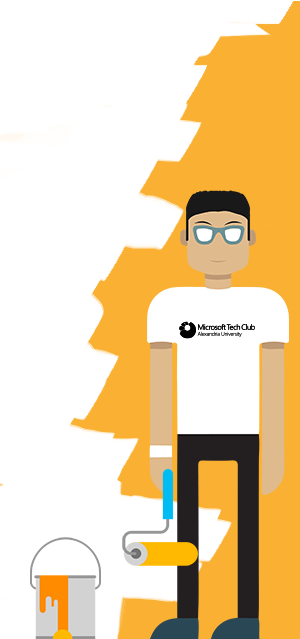
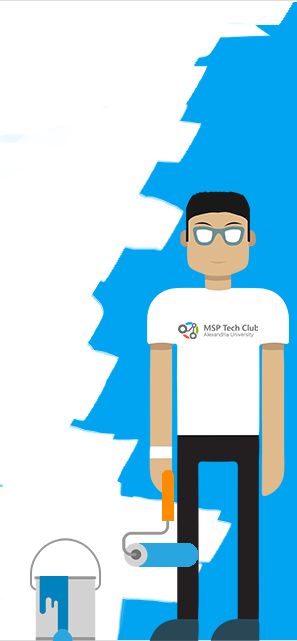
Redesign the new brand

diff --git a/MSTC/public/css/button.css b/MSTC/public/css/button.css
@@ -31,8 +31,8 @@
 
 .btn1-primary1 {
     color: #fff;
-    background-color: #fab133;
-    border-color: #fab133;
+    background-color: #e0e0e0;
+    border-color: #e0e0e0;
 }
 
 .btn1-primary1:hover,
@@ -41,8 +41,8 @@
 .btn1-primary1.active,
 .open .dropdown-toggle.btn1-primary1 {
     color: #fff;
-    background-color: #fab133;
-    border-color: #fab133;
+    background-color: #e0e0e0;
+    border-color: #e0e0e0;
 }
 
 /***********************
@@ -54,16 +54,16 @@
     padding: 12px 22px;
 }
 .btn1-primary1.outline1 {
-    border: 2px solid #fab133;
-    color: #fab133;
+    border: 2px solid #e0e0e0;
+    color: #e0e0e0;
 }
 .btn1-primary1.outline1:hover, .btn1-primary1.outline1:focus, .btn1-primary1.outline:active, .btn1-primary1.outline.active, .open > .dropdown-toggle.btn1-primary {
-    color: #fab133;
-    border-color: #fab133;
+    color: #e0e0e0;
+    border-color: #e0e0e0;
 }
 .btn1-primary1.outline1:active, .btn1-primary1.outline1.active1 {
-    border-color: #fab133;
-    color: #fab133;
+    border-color: #e0e0e0;
+    color: #e0e0e0;
     box-shadow: none;
 }
 

diff --git a/MSTC/public/css/simple-sidebar.css b/MSTC/public/css/simple-sidebar.css
@@ -85,7 +85,7 @@
     text-decoration: none;
     color: #fff;
     background: rgba(255,255,255,0.2);
-    border-left: #fab133 solid;
+    border-left: #01a4f1 solid;
     border-radius: 0;
 }
 

diff --git a/MSTC/resources/views/homepage.blade.php b/MSTC/resources/views/homepage.blade.php
@@ -26,7 +26,7 @@
         }
 
         .form-control:focus {
-            border-color: #fab133;
+            border-color: #01a4f1;
             outline: 0;
             -webkit-box-shadow: inset 0 1px 1px rgba(0,0,0,.075),0 0 8px rgba(102,175,233,.6);
             box-shadow: inset 0 1px 1px rgba(0,0,0,.075),0 0 8px rgba(102,175,233,.6);
@@ -45,16 +45,16 @@
             z-index: 999;
         }
         a {
-            color: #fab133;
+            color: #01a4f1;
         }
         a:link {
-            color: #fab133;
+            color: #01a4f1;
         }
         a:visited {
-            color: #fab133;
+            color: #01a4f1;
         }
         a:hover {
-            color: #fab133;
+            color: #01a4f1;
         }
         textarea:focus,
         input[type="text"]:focus,
@@ -72,7 +72,7 @@
         input[type="tel"]:focus,
         input[type="color"]:focus,
         .uneditable-input:focus {
-            border-color: #fab133;
+            border-color: #01a4f1;
 
         }
 
@@ -107,16 +107,19 @@
         }
         @media screen and (max-width: 990px) {
             #about {
-                background: #fab133;
+                background: #01a4f1;
             }
         }
         @media (min-width: 990px) {
         #about{
-            background: #fab133 url('{{ asset('image/about-bk.png') }}') left no-repeat fixed;-webkit-background-size: contain;
+            background: #01a4f1 url('{{ asset('image/about-bk.png') }}') left no-repeat fixed;-webkit-background-size: contain;
             -moz-background-size: contain;
             -o-background-size: contain;
             background-size: contain;
         }
+        }
+        .brand {height:40px;
+            margin-bottom: -7px;
         }
     </style>
 </head>
@@ -126,16 +129,20 @@
 <!--navbar-->
 <nav class="navbar navbar-default navbar-fixed-top supreme-container" role="navigation">
     <div class="container">
-        <div class="navbar-header page-scroll">
+        <div class="navbar-header fixed-brand page-scroll">
             <button type="button" class="navbar-toggle" data-toggle="collapse" data-target=".navbar-ex1-collapse">
                 <span class="sr-only">Toggle navigation</span>
                 <span class="icon-bar"></span>
                 <span class="icon-bar"></span>
                 <span class="icon-bar"></span>
             </button>
-            <a class="navbar-brand page-scroll" href="#page-top">
-                <img class="img" src="{{ asset('image/logo.png') }}" alt="logo" style="max-width: 100px">
-            </a>
+
+                <div style="padding: 10px">
+                    <a class="page-scroll" href="#page-top">
+                        <img class="brand" src="{{ asset('image/logo.png') }}" alt="logo" >
+                    </a>
+                </div>
+
         </div>
         <div class="collapse navbar-collapse navbar-ex1-collapse">
             <ul class="nav navbar-nav">
@@ -186,7 +193,7 @@
                     <li><a href="/auth/logout">Logout</a></li>
                 </ul>
             @else
-                <button type="button" class="btn1 btn1-primary1 btn1-lg1 outline1" data-toggle="modal" data-target="#myModal">Sign in</button>
+                <button type="button" class="btn1 btn1-primary1 btn1-lg1 outline1" data-toggle="modal" data-target="#myModal">Sign In</button>
             @endif
         </div>
     </div>
@@ -211,7 +218,7 @@
                 <h1>End of summer courses</h1>
                 <h4>Web development , character design and windows phone.</h4>
                 <br>
-                <a href="#" class="btn btn-warning" role="button" style="color: white">Learn More</a>
+                <a href="#" class="btn btn-primary" role="button" style="color: white">Learn More</a>
                 <br>  <br>  <br>
             </div>
         </div>
@@ -223,7 +230,7 @@
                 <h1>End of summer courses</h1>
                 <h4>Web development , character design and windows phone.</h4>
                 <br>
-                <a href="#" class="btn btn-warning" role="button" style="color: white">Learn More</a>
+                <a href="#" class="btn btn-primary" role="button" style="color: white">Learn More</a>
                 <br>  <br>  <br>
             </div>
         </div>
@@ -235,7 +242,7 @@
                 <h1>End of summer courses</h1>
                 <h4>Web development , character design and windows phone.</h4>
                 <br>
-                <a href="#" class="btn btn-warning" role="button" style="color: white">Learn More</a>
+                <a href="#" class="btn btn-primary" role="button" style="color: white">Learn More</a>
                 <br>  <br>  <br>
             </div>
         </div>
@@ -247,7 +254,7 @@
                 <h1>End of summer courses</h1>
                 <h4>Web development , character design and windows phone.</h4>
                 <br>
-                <a href="#" class="btn btn-warning" role="button" style="color: white">Learn More</a>
+                <a href="#" class="btn btn-primary" role="button" style="color: white">Learn More</a>
                 <br>  <br>  <br>
             </div>
         </div>
@@ -499,7 +506,7 @@
                     <p style="text-align: left;font-size: 14px;padding-top: 70px;color:white">
                         Microsoft Tech Club at Alexandria university has a clear mission to help the students in the campus and to be there for any kind of support needed whether it's technical or non-technical and to help them find their most suitable career.
                     </p>
-                    <p style="text-align: left;font-size: 14px;padding-top: 40px;color:#fab133">
+                    <p style="text-align: left;font-size: 14px;padding-top: 40px;color:#01a4f1">
                         Microsoft Student Tech Club - Alexandria University
                         </br>
                         www.mstcalex.com

diff --git a/MSTC/resources/views/app.blade.php b/MSTC/resources/views/app.blade.php
@@ -66,7 +66,7 @@
 	<div id="sidebar-wrapper">
 		<ul class="sidebar-nav nav-pills nav-stacked" id="menu">
 			<li class="activable active">
-				<a href="/dashboard" class="colorable" style="border-radius: 0;background-color: #fab133"><span class="fa-stack fa-lg pull-left"><i class="fa fa-dashboard fa-stack-1x "></i></span> Dashboard</a>
+				<a href="/dashboard" class="colorable" style="border-radius: 0;background-color: #01a4f1"><span class="fa-stack fa-lg pull-left"><i class="fa fa-dashboard fa-stack-1x "></i></span> Dashboard</a>
 			</li>
 			<?php
 			$icon = array("Technical"=>"fa fa-wrench fa-stack-1x","Operations"=>"fa fa-cogs fa-stack-1x","Media & Marketing"=>"fa fa-youtube-play fa-stack-1x","H.R."=>"fa fa-server fa-stack-1x","P.R."=>"fa fa-print fa-stack-1x") ?>
@@ -138,7 +138,7 @@
 	});
 	$('.colorable').click(function(){
 		$('.colorable').css({"border-radius": "", "background-color": ""});
-		$(this).css({"border-radius": "0", "background-color": "#fab133"});
+		$(this).css({"border-radius": "0", "background-color": "#01a4f1"});
 	});
 </script>
 @yield('footer')

diff --git a/MSTC/resources/views/auth/login.blade.php b/MSTC/resources/views/auth/login.blade.php
@@ -16,7 +16,7 @@
 
                         <input class="form-control input-lg" value="{{ old('email') }}" data-validate="required" id="email" type="email" name="email" placeholder="Email"><br>
                         <input class="form-control input-lg" value="" data-validate="required,min(6)" id="password" type="password" name="password" placeholder="Password"><br>
-                        <input class="btn btn-lg btn-warning btn-group-justified" id="bo" type="submit" value="Login" style="display : block; margin : auto;">
+                        <input class="btn btn-lg btn-primary btn-group-justified" id="bo" type="submit" value="Login" style="display : block; margin : auto;">
                     {!! Form::close() !!}
                 </div>
             </div>

diff --git a/MSTC/resources/views/contactus.blade.php b/MSTC/resources/views/contactus.blade.php
@@ -49,7 +49,7 @@
             <div class="row">
                 <div class="col-md-5"></div>
                 <div class="col-md-2">
-                    {!! Form::submit('Submit', ['class' => 'btn btn-warning btn-lg wow rotateInUpLeft', 'style' => 'color: white']) !!}
+                    {!! Form::submit('Submit', ['class' => 'btn btn-primary btn-lg wow rotateInUpLeft', 'style' => 'color: white']) !!}
                 </div>
                 <div class="col-md-5"></div>
             </div>

diff --git a/MSTC/resources/views/events/_form.blade.php b/MSTC/resources/views/events/_form.blade.php
@@ -19,5 +19,5 @@
 </div>
 
 <div class = "form-group">
-    {!! Form::submit($submitButton, ['class' => 'btn btn-warning form-control']) !!}
+    {!! Form::submit($submitButton, ['class' => 'btn btn-primary form-control']) !!}
 </div>
